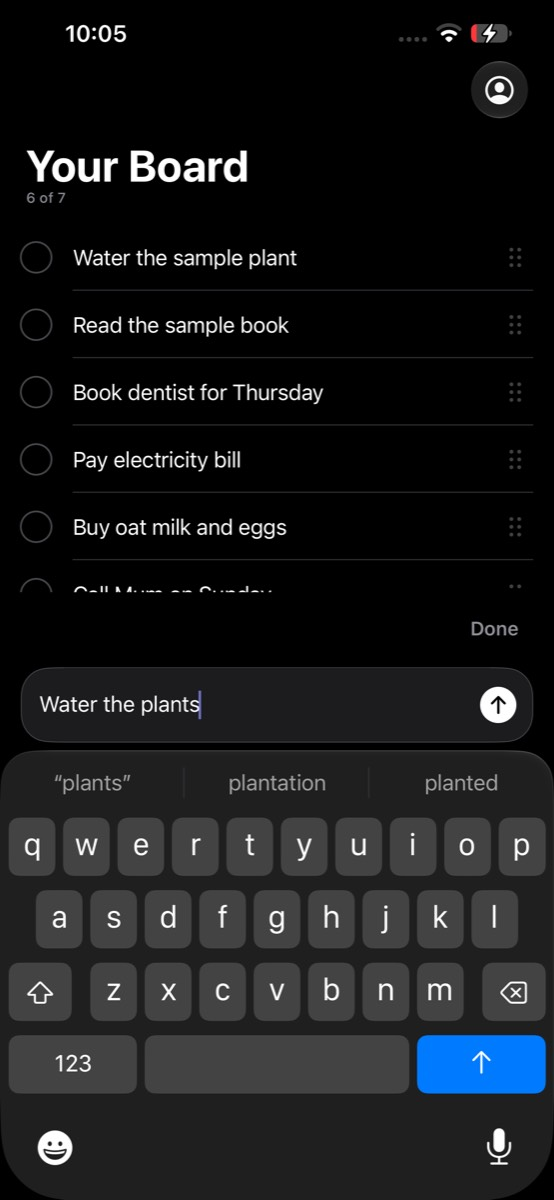
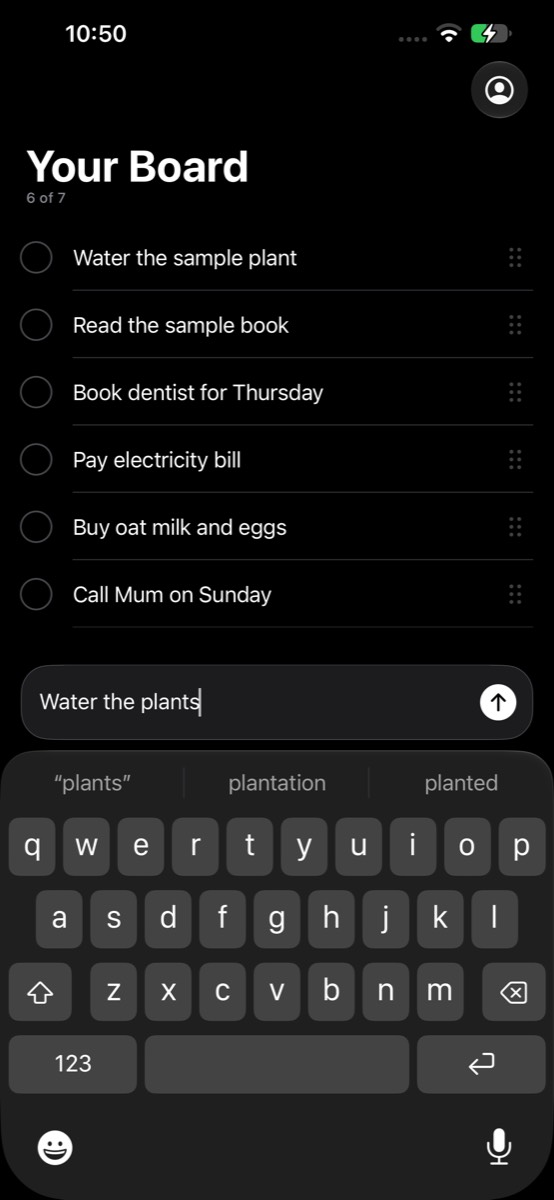
iOS: intentional compose state and neutral account rows

diff --git a/ios/App/AccountView.swift b/ios/App/AccountView.swift
@@ -62,7 +62,7 @@ struct AccountView: View {
                     Button {
                         showSignOut = true
                     } label: {
-                        Label("Sign Out", systemImage: "rectangle.portrait.and.arrow.right")
+                        AccountRow("Sign Out", systemImage: "rectangle.portrait.and.arrow.right")
                     }
                     .disabled(isDeletingAccount)
                     .accessibilityHint("Signs you out on this iPhone")
@@ -70,23 +70,23 @@ struct AccountView: View {
 
                 Section {
                     Link(destination: LMRWeb.privacy) {
-                        Label("Privacy", systemImage: "hand.raised")
+                        AccountRow("Privacy", systemImage: "hand.raised", external: true)
                     }
                     Link(destination: LMRWeb.terms) {
-                        Label("Terms", systemImage: "doc.plaintext")
+                        AccountRow("Terms", systemImage: "doc.plaintext", external: true)
                     }
                     Link(destination: LMRWeb.support) {
-                        Label("Support", systemImage: "questionmark.circle")
+                        AccountRow("Support", systemImage: "questionmark.circle", external: true)
                     }
                     Link(destination: LMRWeb.dataExport) {
-                        Label("Download My Data", systemImage: "square.and.arrow.down")
+                        AccountRow("Download My Data", systemImage: "square.and.arrow.down", external: true)
                     }
                 }
 
                 Section {
                     if let feedbackURL = FeedbackMail.url(appInfo) {
                         Link(destination: feedbackURL) {
-                            Label("Send Feedback", systemImage: "envelope")
+                            AccountRow("Send Feedback", systemImage: "envelope", external: true)
                         }
                         .accessibilityHint("Opens Mail with your app and iOS version filled in")
                     }
@@ -112,6 +112,8 @@ struct AccountView: View {
                 }
             }
             .listStyle(.insetGrouped)
+            // Neutral rows; colour is reserved for state and destructive actions.
+            .tint(.primary)
             .listSectionSpacing(.compact)
             .navigationTitle("Account")
             .navigationBarTitleDisplayMode(.inline)
@@ -243,5 +245,41 @@ struct AccountView: View {
             self.error = error.localizedDescription
             isDeletingAccount = false
         }
+    }
+}
+
+/// Neutral settings row: primary text, grey glyph, optional quiet
+/// external-link arrow. Keeps the sheet from reading as a wall of links.
+private struct AccountRow: View {
+    let title: String
+    let systemImage: String
+    var external = false
+
+    init(_ title: String, systemImage: String, external: Bool = false) {
+        self.title = title
+        self.systemImage = systemImage
+        self.external = external
+    }
+
+    var body: some View {
+        HStack(spacing: 14) {
+            Image(systemName: systemImage)
+                .font(.body)
+                .foregroundStyle(.secondary)
+                .frame(width: 24)
+                .accessibilityHidden(true)
+            Text(title)
+                .foregroundStyle(.primary)
+            Spacer(minLength: 8)
+            if external {
+                Image(systemName: "arrow.up.right")
+                    .font(.footnote.weight(.semibold))
+                    .foregroundStyle(.tertiary)
+                    .accessibilityHidden(true)
+            }
+        }
+        .contentShape(Rectangle())
+        .accessibilityElement(children: .combine)
+        .accessibilityLabel(title)
     }
 }

diff --git a/ios/App/ReminderListView.swift b/ios/App/ReminderListView.swift
@@ -189,16 +189,6 @@ struct ReminderListView: View {
 
     private var composer: some View {
         VStack(alignment: .leading, spacing: 8) {
-            if composerFocused {
-                HStack {
-                    Spacer()
-                    Button("Done") { composerFocused = false }
-                        .font(.subheadline.weight(.semibold))
-                        .foregroundStyle(.secondary)
-                        .frame(minWidth: 60, minHeight: 44)
-                        .accessibilityHint("Dismisses the keyboard")
-                }
-            }
             if atCapacity {
                 Text(ReminderBoardLimits.postItHint)
                     .font(.caption)
@@ -215,11 +205,12 @@ struct ReminderListView: View {
                     axis: .vertical
                 )
                 .font(.body)
+                .tint(.primary)
                 .lineLimit(1...4)
                 .textInputAutocapitalization(.sentences)
                 .focused($composerFocused)
                 .disabled(atCapacity || isReordering || isDragging)
-                .submitLabel(.send)
+                .submitLabel(.return)
                 .accessibilityLabel("New reminder")
                 .accessibilityHint(
                     atCapacity
@@ -227,6 +218,20 @@ struct ReminderListView: View {
                         : "Adds a reminder to your board and Lock Screen"
                 )
                 .onSubmit { Task { await addReminder() } }
+
+                if composerFocused && draft.text.isEmpty {
+                    Button { composerFocused = false } label: {
+                        Image(systemName: "keyboard.chevron.compact.down")
+                            .font(.subheadline)
+                            .foregroundStyle(.secondary)
+                            .frame(width: 32, height: 44)
+                            .contentShape(Rectangle())
+                    }
+                    .buttonStyle(.plain)
+                    .accessibilityLabel("Done")
+                    .accessibilityHint("Dismisses the keyboard")
+                    .transition(.opacity)
+                }
 
                 Button {
                     Task { await addReminder() }
@@ -266,7 +271,19 @@ struct ReminderListView: View {
         }
         .padding(.horizontal, 16)
         .padding(.top, 6)
-        .padding(.bottom, 6)
+        .padding(.bottom, 8)
+        .background(alignment: .top) {
+            LinearGradient(
+                colors: [Color(.systemBackground).opacity(0), Color(.systemBackground)],
+                startPoint: .top,
+                endPoint: .bottom
+            )
+            .frame(height: 36)
+            .offset(y: -36)
+            .allowsHitTesting(false)
+            .accessibilityHidden(true)
+        }
+        .background(Color(.systemBackground).allowsHitTesting(false))
         .accessibilityElement(children: .contain)
     }
 
